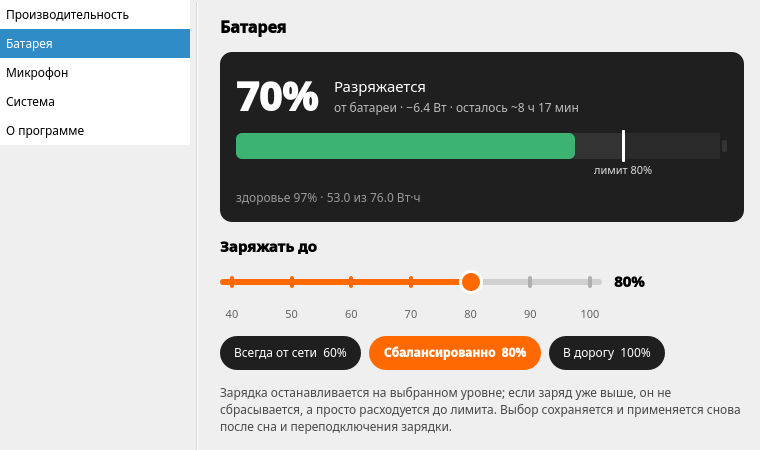
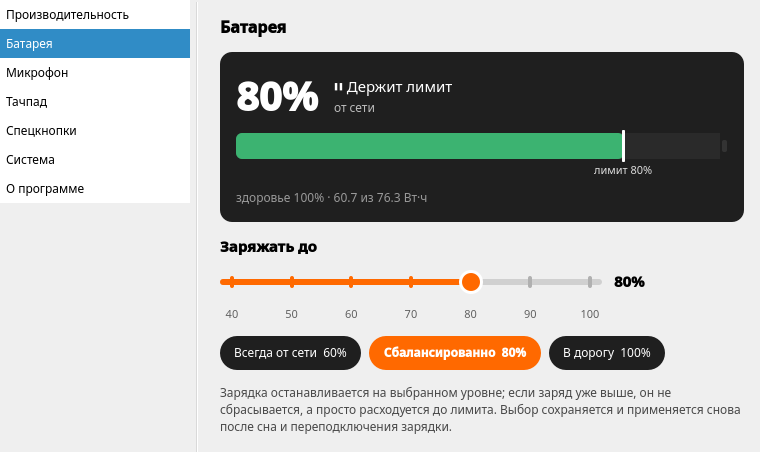
CHANGELOG и новые скриншоты; в релизе — что нового
CI берёт раздел версии из CHANGELOG.md в текст релиза перед инструкциями
по установке.

diff --git a/CHANGELOG.md b/CHANGELOG.md
@@ -1,0 +1,35 @@
+# Изменения
+
+## 0.1.4
+
+- **Fn+F4 снова выключает микрофон**: глушится и в системе, и индикатор на клавише.
+  В 0.1.3 микрофон сразу включался обратно.
+- **Микрофон в меню трея** — переключатель рядом с тачпадом.
+- **Fn+F7** (клавиша с логотипом Xiaomi) запускает свою команду — так же, как кнопка
+  в правом верхнем углу. Обе настраиваются на странице «Спецкнопки».
+
+## 0.1.3
+
+- **Fn+K переключает режимы** по кругу: тихий → авто → турбо → максимум. Раньше клавиша
+  в Linux не работала совсем.
+- **Отключение тачпада** — в окне, в меню трея и командой `micontrol touchpad toggle`,
+  которую можно повесить на любое сочетание клавиш (Fn+Пробел до системы не доходит).
+- **Кнопка в правом верхнем углу** клавиатуры запускает любую команду на ваш выбор.
+- **Подсказка значка в трее**: при наведении видно режим, потребление и частоту CPU,
+  температуру, заряд батареи и лимит.
+- Значок в трее и окно обновляются сразу после Fn+K и подключения зарядки.
+- Закрытие окна больше не показывает уведомление «работает в трее».
+- Текст на странице «О программе» переносится по ширине окна.
+
+## 0.1.2
+
+- Пакет `.deb` для Ubuntu 24.04+, Debian 13+ и Linux Mint 22+.
+
+## 0.1.1
+
+- Пакет RPM для Fedora: демон запускается при старте системы, значок в трее — при входе,
+  модуль `acpi_call` пересобирается DKMS под новые ядра.
+
+## 0.1.0
+
+- Первый выпуск: режимы производительности, лимит заряда, микрофон, переносная сборка.

diff --git a/README.md b/README.md
@@ -10,6 +10,8 @@ battery charge limit, microphone LED. Rust + Qt 6.*
 | Производительность | Батарея | Микрофон |
 |---|---|---|
 | ![](docs/screenshots/performance.png) | ![](docs/screenshots/battery.png) | ![](docs/screenshots/microphone.png) |
+| **Тачпад** | **Спецкнопки** | |
+| ![](docs/screenshots/touchpad.png) | ![](docs/screenshots/keys.png) | |
 
 ## Возможности
 
@@ -21,9 +23,12 @@ battery charge limit, microphone LED. Rust + Qt 6.*
 - **Микрофон**: mute в PipeWire и индикатор на клавише.
 - **Тачпад**: отключение в окне, в трее или командой `micontrol touchpad toggle`, которую
   можно повесить на любое сочетание клавиш (Fn+Пробел до системы не доходит).
-- **Спецкнопка** в правом верхнем углу клавиатуры: запускает любую команду, заданную в окне.
+- **Спецкнопки**: кнопка в правом верхнем углу клавиатуры и Fn+F7 запускают любые команды,
+  заданные в окне.
 - **Мониторинг**: потребление и частота CPU, температура, мощность заряда/разряда, здоровье батареи.
 - **Значок в трее**: текущее состояние и быстрое переключение по правому клику.
+
+Что нового — в [CHANGELOG.md](CHANGELOG.md).
 
 ## Проверенные модели
 
